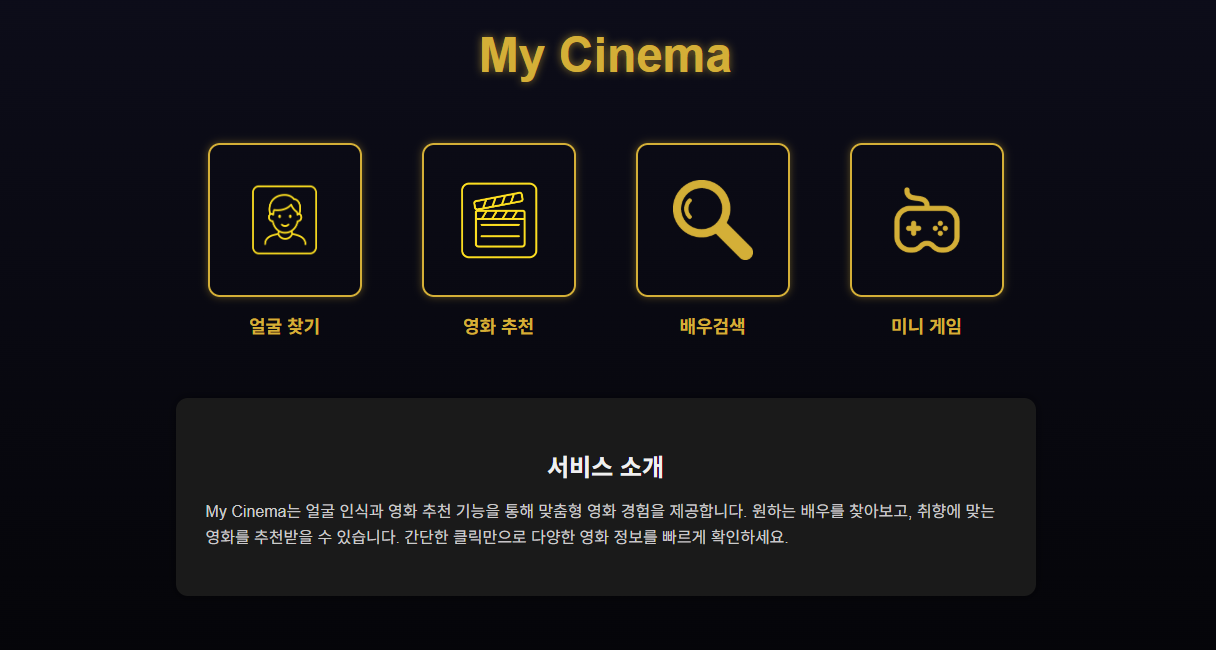
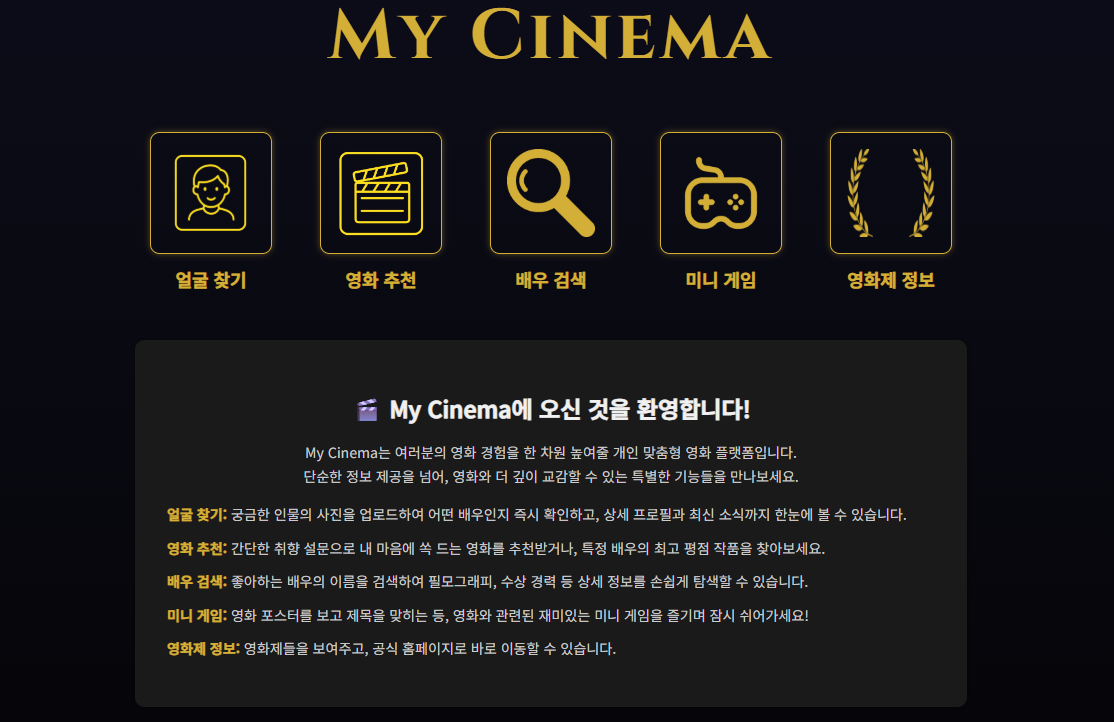
Update README

diff --git a/README.md b/README.md
@@ -1,14 +1,16 @@
 # Python_My_Cinema
----
-Flask와 TMDb API, AWS Rekognition을 활용한 나만의 시네마 웹 애플리케이션입니다.  
-웹 UI에서 **얼굴찾기**, **영화추천**, **배우검색**, **미니게임**의 4가지 기능을 제공합니다.
 
-A Flask web application that integrates the TMDb API and optionally AWS Rekognition.
-It provides 4 main features via a web UI:
-- Face Detection
+Flask와 TMDb API, AWS Rekognition을 활용한 나만의 시네마 웹 애플리케이션입니다.
+
+웹 UI에서 **배우 얼굴 찾기**, **영화추천**, **배우검색**, **미니게임, 영화제 정보**의 5가지 기능을 제공합니다.
+
+A Flask-based mini web app that explores movies with TMDb API and face detection AWS Rekognition. It provides 5 main features via a web UI:
+
+- Actor Face Detection
 - Movie Recommendation
 - Actor Search
 - Mini Game
+- Film Festival Information
 
 ![0](/static/readme_img/0_main_example.png)
 
